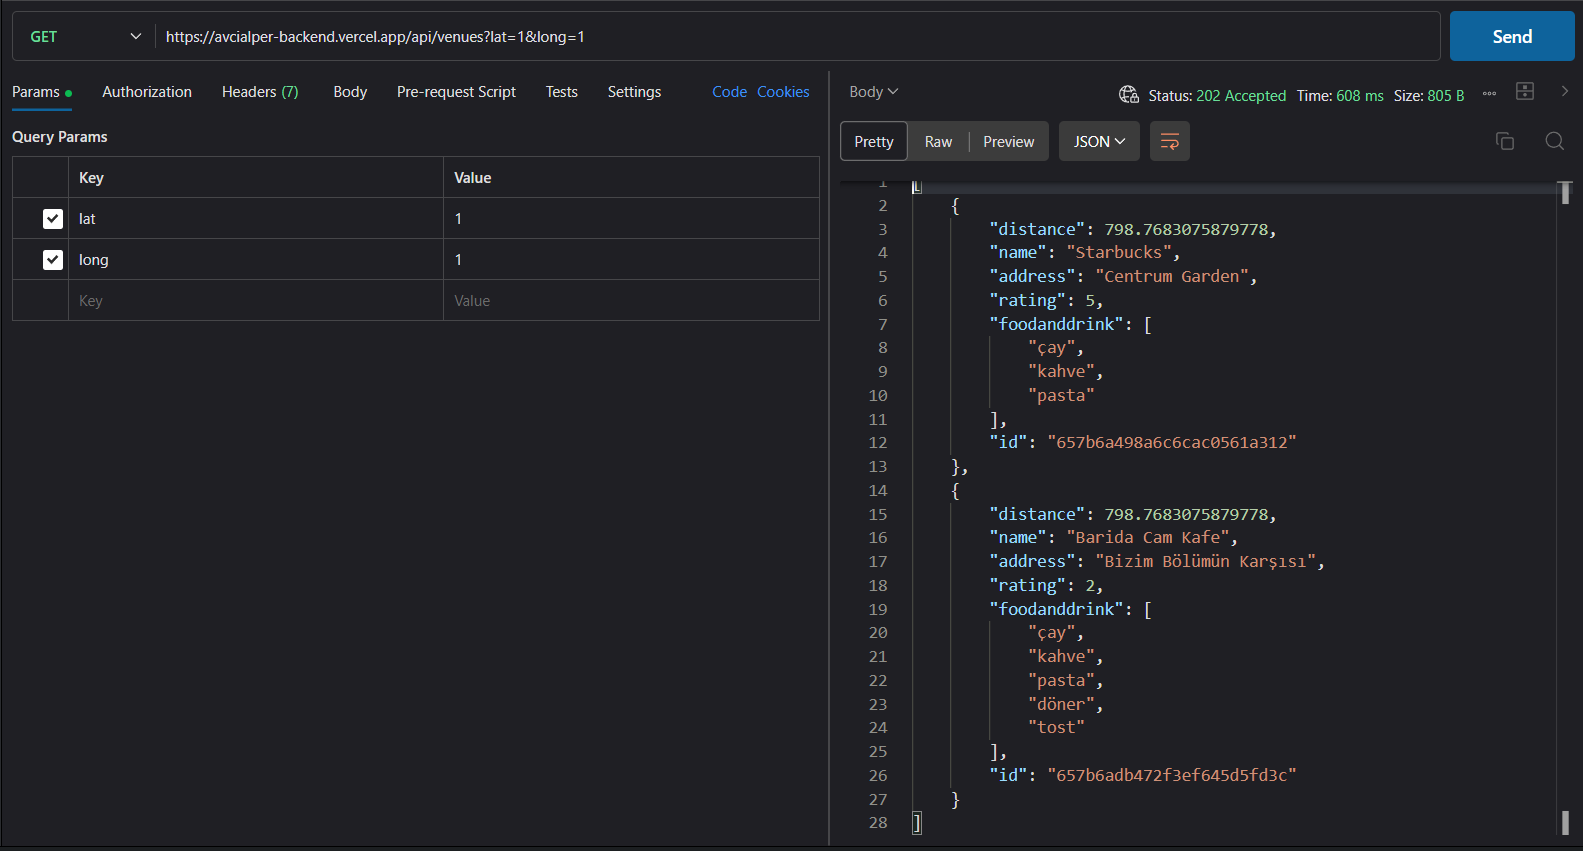
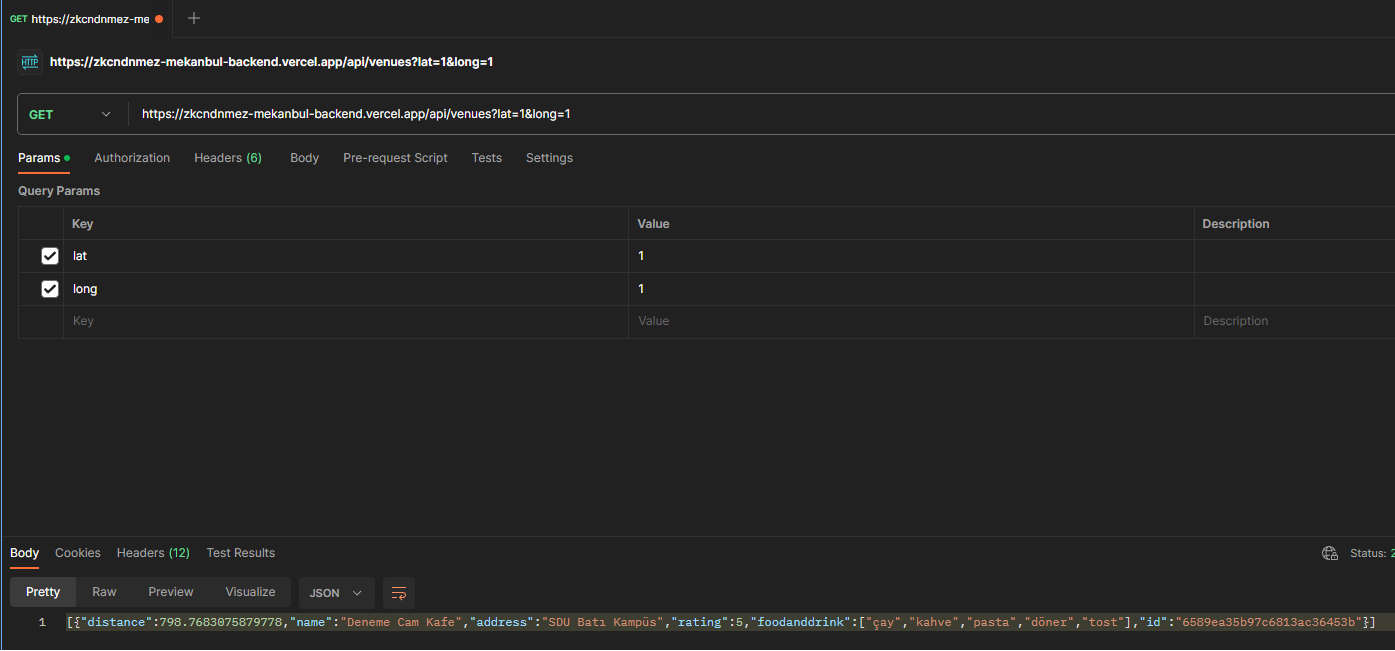
update

diff --git a/README.md b/README.md
@@ -1,7 +1,7 @@
 # Mekanbul API'leri
-1. Konuma göre mekan listele: [https://avcialper-backend.vercel.app/api/venues?lat=1&long=1](https://avcialper-backend.vercel.app/api/venues?lat=1&long=1)
+1. Konuma göre mekan listele: [https://zkcndnmez-mekanbul-backend.vercel.app/api/venues?lat=1&long=1](https://zkcndnmez-mekanbul-backend.vercel.app/api/venues?lat=1&long=1)
 ![konumagoremekanlar](konumagoremekanlar.png)
-2. ID'ye göre mekan getir: [https://avcialper-backend.vercel.app/api/venues/657b6a498a6c6cac0561a312](https://avcialper-backend.vercel.app/api/venues/657b6a498a6c6cac0561a312)
+2. ID'ye göre mekan getir: [https://zkcndnmez-mekanbul-backend.vercel.app/api/venues/6589ea35b97c6813ac36453b](https://zkcndnmez-mekanbul-backend.vercel.app/api/venues/6589ea35b97c6813ac36453b)
 ![idyegoremekan](idyegoremekan.png)
-3. ID'ye göre yorum getir: [https://avcialper-backend.vercel.app/api/venues/657b6a498a6c6cac0561a312/comments/658469a1ad1ea96a3a17ede5](https://avcialper-backend.vercel.app/api/venues/657b6a498a6c6cac0561a312/comments/658469a1ad1ea96a3a17ede5)
+3. ID'ye göre yorum getir: [https://zkcndnmez-mekanbul-backend.vercel.app/api/venues/6589ea35b97c6813ac36453b/comments/6589ea626c6512c4a5378e69](https://zkcndnmez-mekanbul-backend.vercel.app/api/venues/6589ea35b97c6813ac36453b/comments/6589ea626c6512c4a5378e69)
 ![idyegoreyorum](idyegoreyorum.png)
